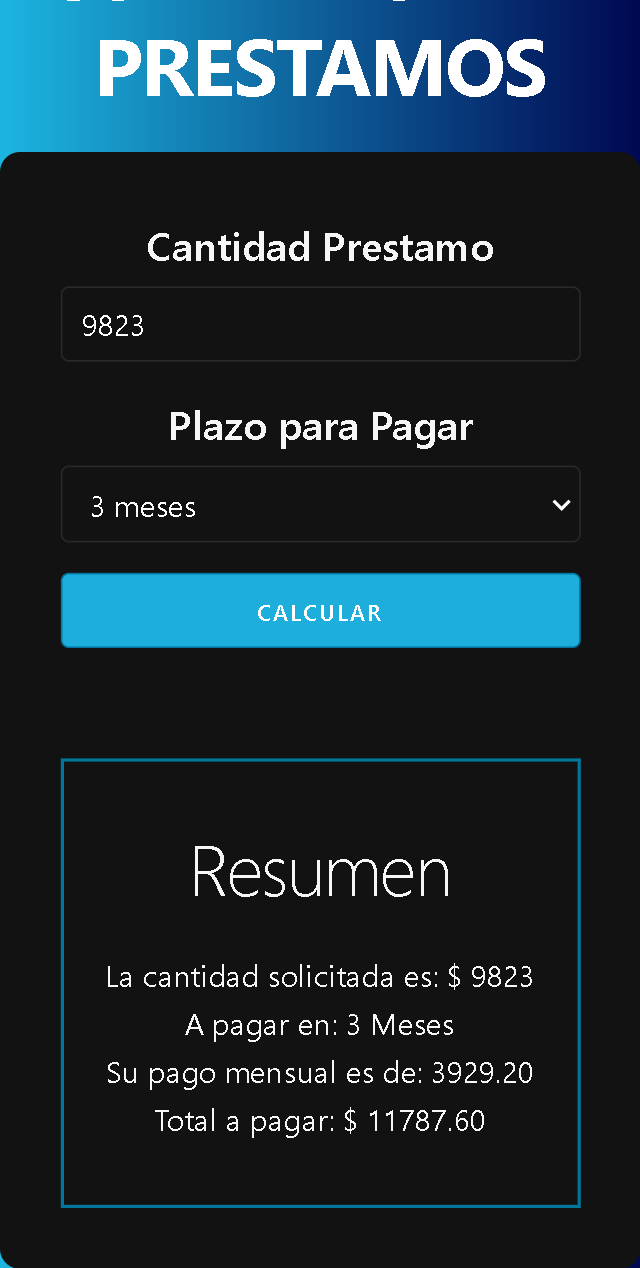
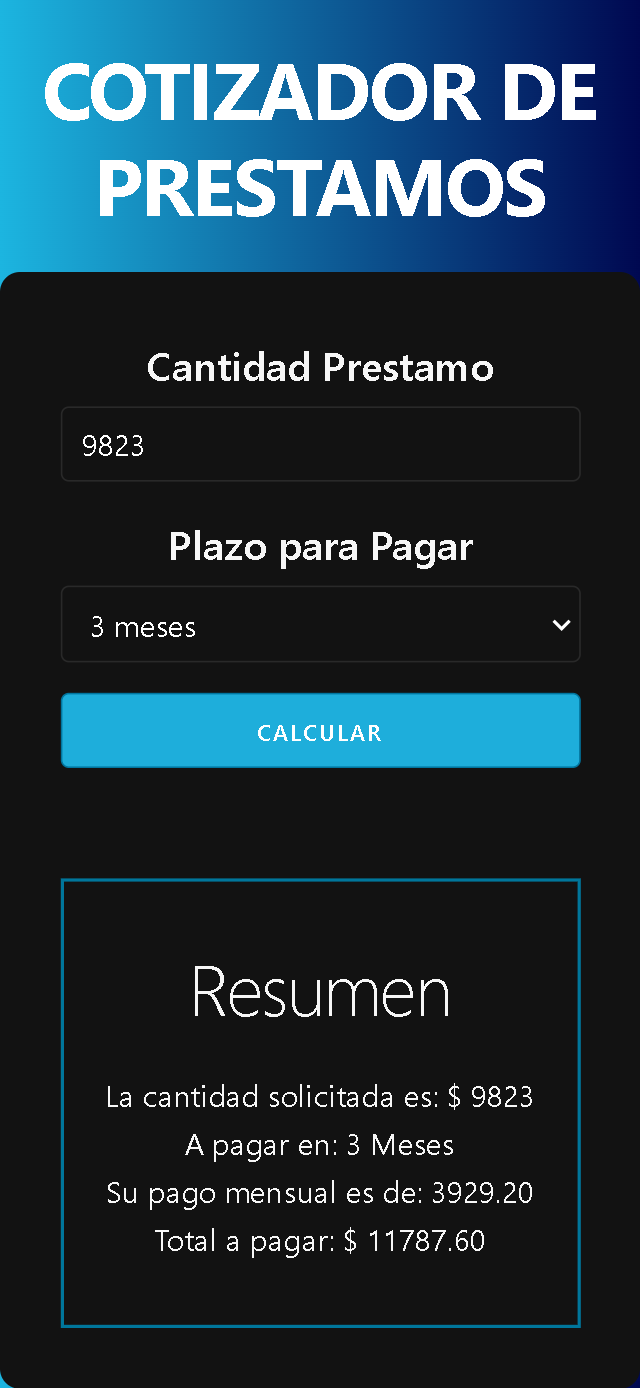
Resize image

diff --git a/README.md b/README.md
@@ -17,6 +17,6 @@ You may also see any lint errors in the console.
 # Loan Calculator - React App
 
 <p align="center">
-  <img style="max-width: 50%" src="./src/img/view.png">
+  <img width="200px" src="./src/img/view.png">
 </p>
 
